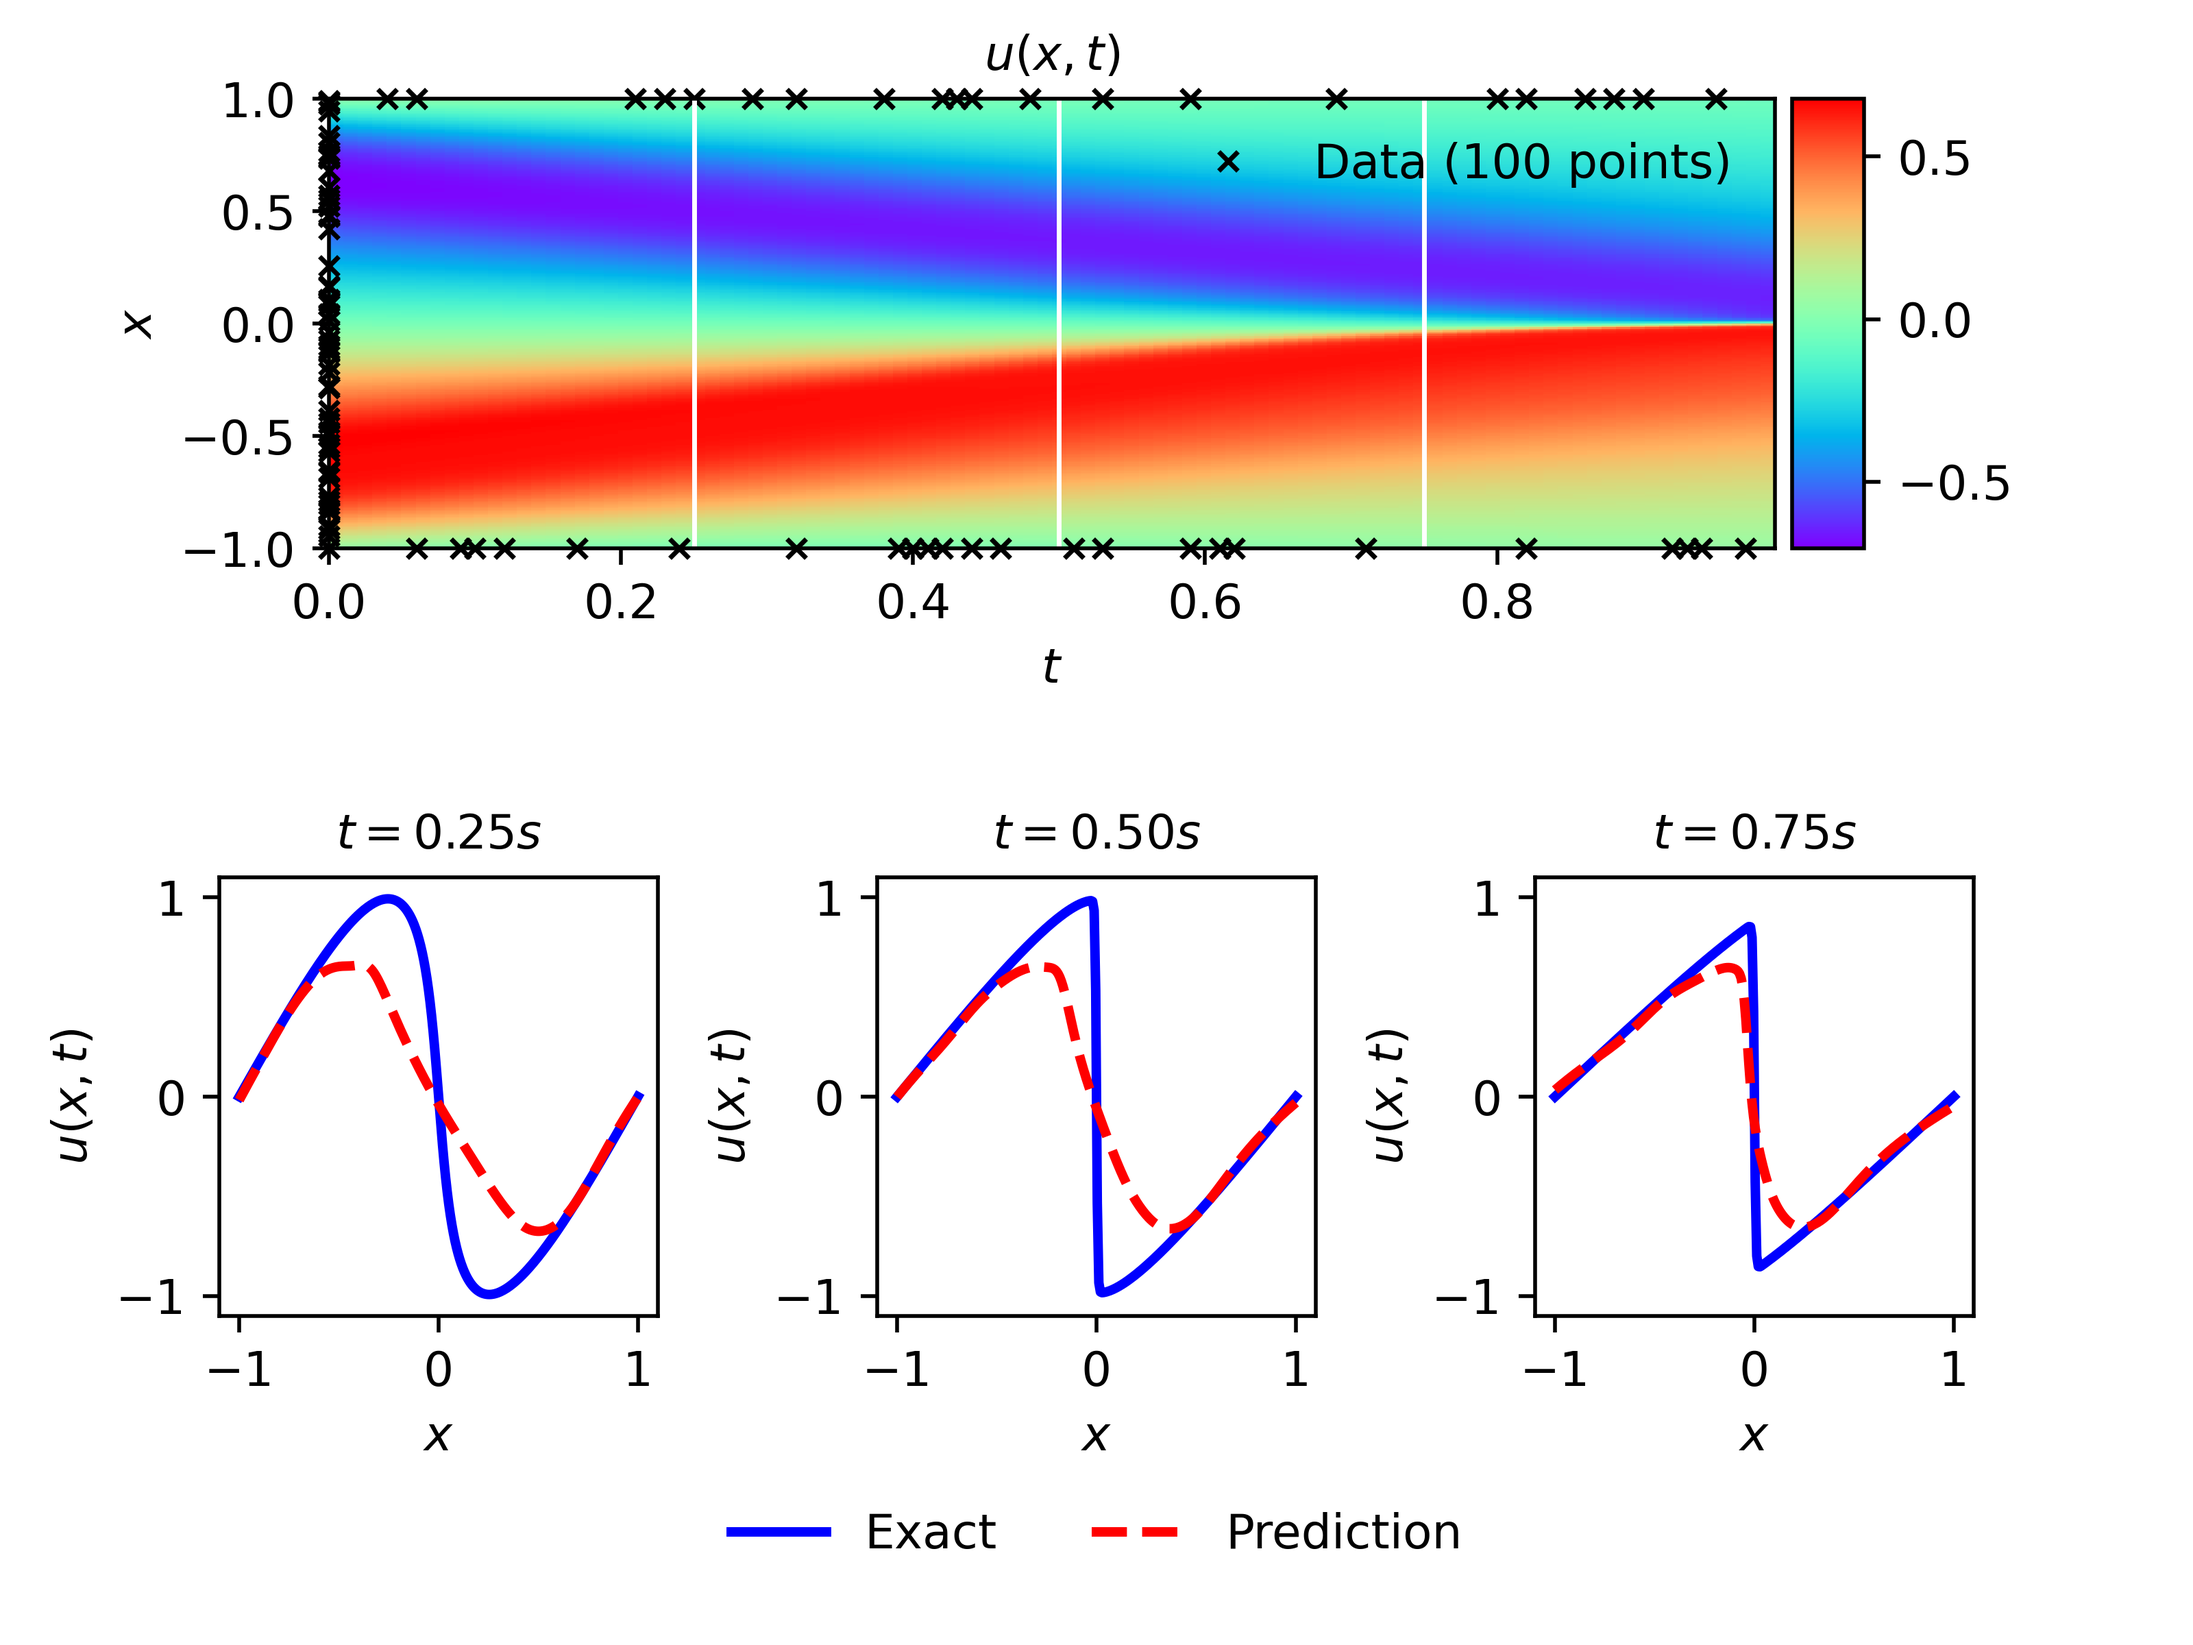
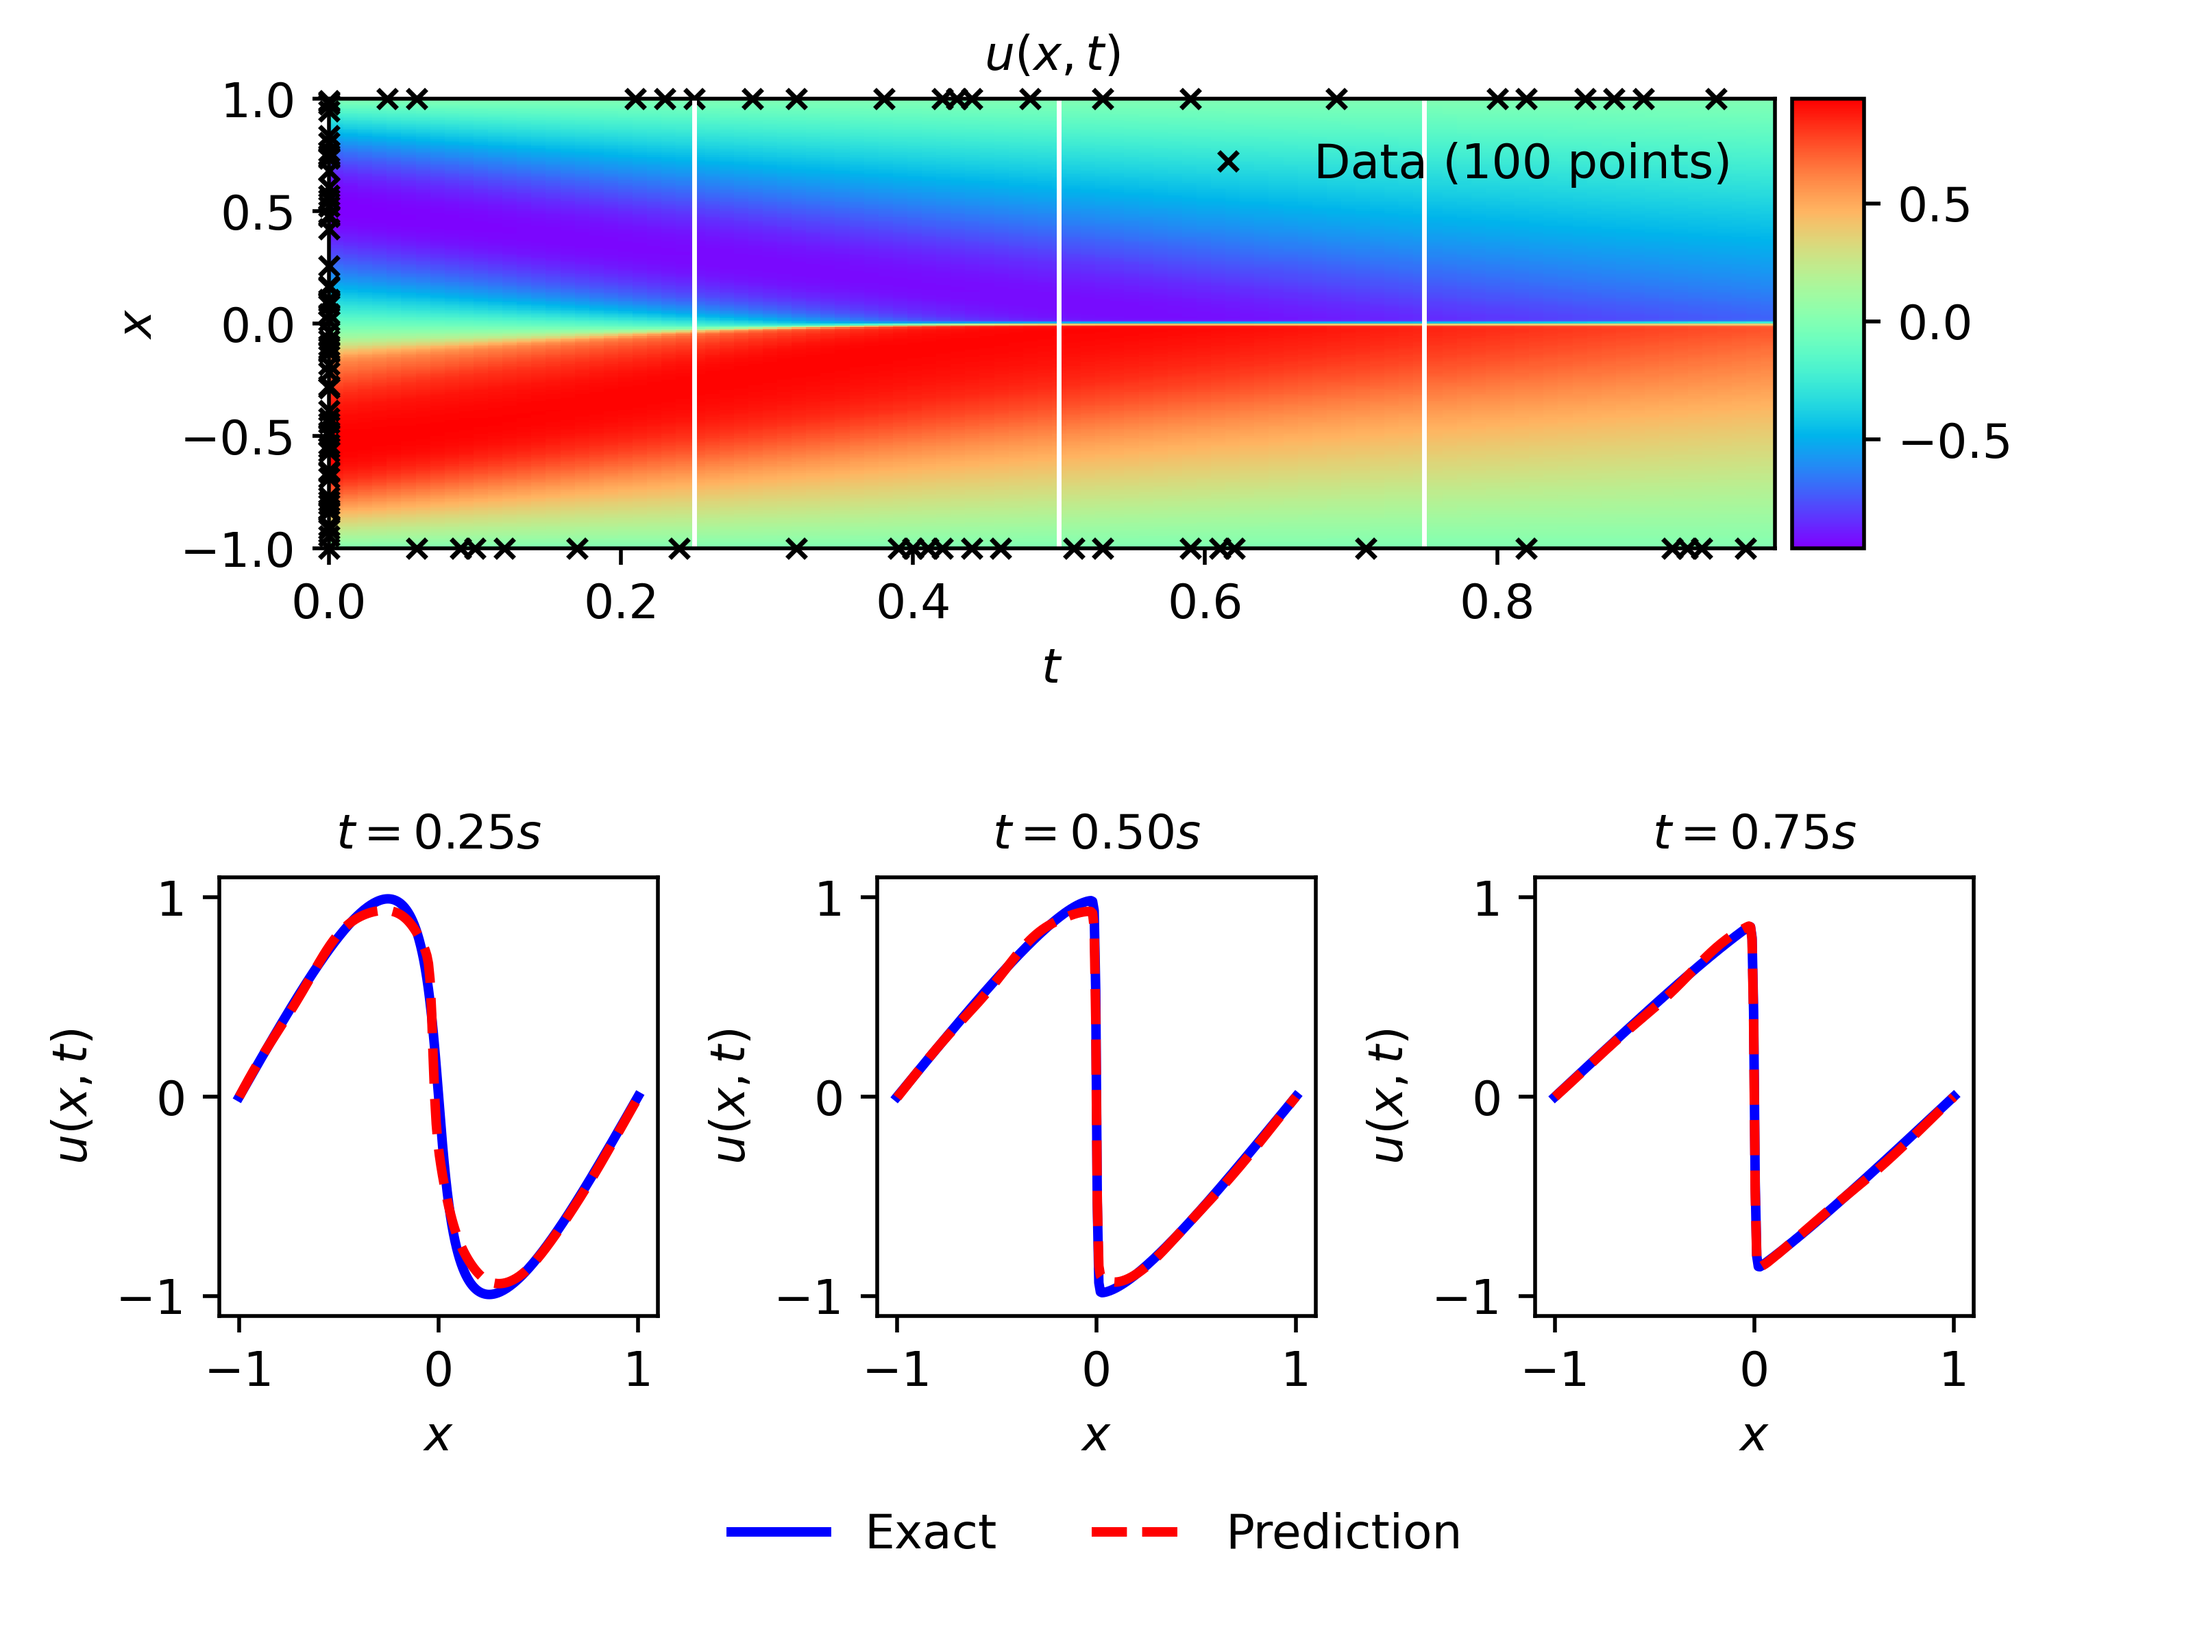
Working with good accuracy 6% error

diff --git a/myBurgers.py b/myBurgers.py
@@ -335,9 +335,17 @@ def main_loop(N_u, N_f, num_layers, num_neurons):
     # L-BFGS Optimizer
 
     global optimizer
+    # optimizer = torch.optim.LBFGS(model.parameters(), lr=0.1, 
+    #                             max_iter = 250, 
+    #                             max_eval = None, 
+    #                             tolerance_grad = 1e-05, 
+    #                             tolerance_change = 1e-09, 
+    #                             history_size = 100, 
+    #                             line_search_fn = 'strong_wolfe')
+
+    # Gets from 37% error to 8% error
     optimizer = torch.optim.LBFGS(model.parameters(), lr=0.1, 
-                                max_iter = 250, 
-                                max_eval = None, 
+                                max_iter = 1000,
                                 tolerance_grad = 1e-05, 
                                 tolerance_change = 1e-09, 
                                 history_size = 100, 
